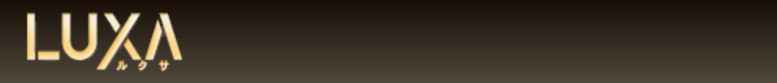
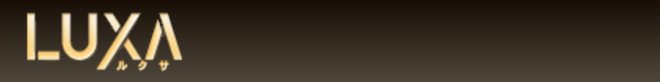
hisi

Changed region(s): [[0.0303, 0.1463, 0.2727, 0.878]]

diff --git a/css/login.css b/css/login.css
@@ -1,0 +1,48 @@
+#select {
+  text-align: center;
+}
+
+select[name="team-id"] {
+  line-height: 40px;
+  width: 203px;
+  overflow: hidden;
+  display: inline-block;
+  *display: inline;
+　*zoom: 1;
+　border-radius: 0.5em;
+　border: 3px solid rgba(0, 0, 0, 0.4);
+　box-shadow: 0 2px 0 #AAA;
+　background-color: rgba(192, 192, 192, 0.1);
+  border-radius: 5px;
+}
+
+#password {
+  text-align: center;
+}
+
+input[name="password"] {
+  line-height: 40px;
+  width: 203px;
+  margin-top: 50px;
+  margin-bottom: 50px;
+  border-radius: 5px;
+}
+
+#button {
+  text-align: center;
+}
+
+input[name="password-submit"] {
+  display: inline-block;
+  width: 203px;
+  line-height:  60%;
+  padding: 20px 20px;
+  border-radius: 25px;
+  border-color: #FFF;
+  text-decoration: none;
+  text-align: center;
+  color: #FFF;
+  background-image: -webkit-linear-gradient(bottom left, #87cefa 0%, #6495ed 100%);
+  background-image: -o-linear-gradient(bottom left, #87cefa 0%, #6495ed 100%);
+  background-image: linear-gradient(to top right, #87cefa 0%, #6495ed 100%);
+}

diff --git a/css/index.css b/css/index.css
@@ -1,0 +1,27 @@
+.link {
+  display: inline-block;
+  width: 203px;
+  line-height:  60%;
+  margin-top: 10px;
+  margin-bottom: 10px;
+  padding: 20px 20px;
+  border-radius: 25px;
+  text-decoration: none;
+  text-align: center;
+  color: #FFF;
+  background-image: -webkit-linear-gradient(bottom left, #FFC107 0%, #ff8b5f 100%);
+  background-image: -o-linear-gradient(bottom left, #FFC107 0%, #ff8b5f 100%);
+  background-image: linear-gradient(to top right, #FFC107 0%, #ff8b5f 100%);
+  transition: .4s;
+}
+
+.link:hover {
+  background-image: -webkit-linear-gradient(45deg, #FFC107 0%, #f76a35 100%);
+  background-image: linear-gradient(45deg, #FFC107 0%, #f76a35 100%);
+}
+
+.answer {
+  background-image: -webkit-linear-gradient(bottom left, #87cefa 0%, #6495ed 100%);
+  background-image: -o-linear-gradient(bottom left, #87cefa 0%, #6495ed 100%);
+  background-image: linear-gradient(to top right, #87cefa 0%, #6495ed 100%);
+}

diff --git a/css/common.css b/css/common.css
@@ -1,3 +1,4 @@
+<<<<<<< 83a7f360424b8ece56e953193ab23891eaea951c
 div {
   font-size: 20px;
 }
@@ -9,3 +10,53 @@ div {
   padding-bottom: 10px;
   text-align: center;
 }
+=======
+html {
+  font-size: 62.5%;
+}
+
+body {
+  font-size: 1.4rem;
+}
+
+a {
+  text-decoration: none;
+}
+
+select {
+  -moz-appearance: none;
+  -webkit-appearance: none;
+  -o-appearance: none;
+  -ms-appearance: none;
+  appearance: none;
+  border-radius: 0;
+  margin: 0;
+  padding: 0;
+}
+
+input {
+  -moz-appearance: none;
+  -webkit-appearance: none;
+  -o-appearance: none;
+  -ms-appearance: none;
+  appearance: none;
+  border-radius: 0;
+  margin: 0;
+  padding: 0;
+}
+
+#header img{
+  width: 100%;
+}
+
+#footer img{
+  width: 100%;
+}
+
+#contents-inner {
+  padding-top: 80px;
+  padding-right: 60px;
+  padding-bottom: 80px;
+  padding-left: 60px;
+}
+>>>>>>> modify login.php design

diff --git a/css/item1.css b/css/item1.css
@@ -1,0 +1,3 @@
+.message {
+
+}

diff --git a/index.php b/index.php
@@ -10,8 +10,9 @@
 <head>
   <meta charset="utf-8">
   <title>lxmc home</title>
+  <meta name="viewport" content="width=380px">
   <link rel="stylesheet" type="text/css" href="css/common.css">
-  <link rel="stylesheet" type="text/css" href="css/home.css">
+  <link rel="stylesheet" type="text/css" href="css/index.css">
   <script type="text/javascript" src="https://code.jquery.com/jquery-3.2.1.min.js"></script>
 </head>
 <body>
@@ -19,37 +20,36 @@
     <table id="item-use-history-table">
     </table>
   </div>
-
   <div id="header">
     <img src="img/luxa_header.png" width="100%"/>
   </div>
-  <?php
-    require './api/database/Database.php';
-    $db = Database::connect();
-    $team_id = 4; //暫定id
-    $sql = 'SELECT item_id FROM item_use_history WHERE team_id = :team_id;'; //Query
-    $history = $db -> prepare($sql);
-    $history -> bindParam(':team_id', $team_id);
-    $history -> execute();
+  <div id="contents-inner">
+    <?php
+      require './api/database/Database.php';
+      $db = Database::connect();
+      $team_id = 4; //暫定id
+      $sql = 'SELECT item_id FROM item_use_history WHERE team_id = :team_id;'; //Query
+      $history = $db -> prepare($sql);
+      $history -> bindParam(':team_id', $team_id);
+      $history -> execute();
 
-    $item_use_ids = $history -> fetchAll(PDO::FETCH_COLUMN, 'item_id');
-    if (empty($item_use_ids)) {
-      $item_no = 0; // アイテム1
-      if (count($item_use_ids) == 1 && current($item_use_ids) == $item_no) {
-        echo '<div class="link"><a href="item1.php">アイテム１</a></div>';
-      } else if (count($item_use_ids) == 1 && current($item_use_ids) != $item_no) {
-        echo '<div class="link"><a href="item2.php">アイテム２</a></div>';
+      $item_use_ids = $history -> fetchAll(PDO::FETCH_COLUMN, 'item_id');
+      if (empty($item_use_ids)) {
+        $item_no = 0; // アイテム1
+        if (count($item_use_ids) == 1 && current($item_use_ids) == $item_no) {
+          echo '<a href="item1.php" class="link">アイテム１</a>';
+        } else if (count($item_use_ids) == 1 && current($item_use_ids) != $item_no) {
+          echo '<a href="item2.php" class="link">アイテム２</a>';
+        } else {
+          echo '<a href="item1.php" class="link">アイテム１</a>';
+          echo '<a href="item2.php" class="link">アイテム２</a>';
+        }
       } else {
-        echo '<div class="link"><a href="item1.php">アイテム１</a></div>';
-        echo '<div class="link"><a href="item2.php">アイテム２</a></div>';
+        echo '<div class="message"><p>アイテム1は使用済みです</p></div>';
+        echo '<div class="message"><p>アイテム2は使用済みです</p></div>';
       }
-    } else {
-      echo '<div class="message"><p>アイテム1は使用済みです</p></div>';
-      echo '<div class="message"><p>アイテム2は使用済みです</p></div>';
-    }
- ?>
-  <div class="link">
-    <a href="answer.php">回答する</a>
+    ?>
+    <a href="answer.php" class="link answer">回答する</a>
   </div>
   <div id="footer">
     <img src="img/luxa_footer.png" width="100%"/>
@@ -60,23 +60,23 @@
         getItemUseHistory();
     });
 
-	let getItemUseHistory = function(teamId){
-		$.ajax({
-			type: "GET",
-			url: "./api/item-use-history.php",
-			dataType: "json",
-			success: showJson,
-			error: function( data ){console.log(data.responseText);},
-		});
-	}
+    let getItemUseHistory = function(teamId){
+        $.ajax({
+            type: "GET",
+            url: "./api/item-use-history.php",
+            dataType: "json",
+            success: showJson,
+            error: function( data ){console.log(data.responseText);},
+        });
+    }
 
-	let createTable = function(){
-		let table = $('<table></table>').attr('id', 'item-use-history').appendTo('#item-use-history');
-		let tr = $('<tr></tr>').appendTo($('#item-use-history-table'));
-		tr.append('<th>アイテム</th>');
-		tr.append('<th>ディールID</th>');
-		tr.append('<th>ITEM_USE_RESULT</th>');
-	}
+    let createTable = function(){
+        let table = $('<table></table>').attr('id', 'item-use-history').appendTo('#item-use-history');
+        let tr = $('<tr></tr>').appendTo($('#item-use-history-table'));
+        tr.append('<th>アイテム</th>');
+        tr.append('<th>ディールID</th>');
+        tr.append('<th>ITEM_USE_RESULT</th>');
+    }
 
     let showJson = function(json){
         if(json.length == 0 ){

diff --git a/login/login.php b/login/login.php
@@ -9,13 +9,14 @@
 <head>
     <meta charset="utf-8">
     <title>LXMC TEAM LOGIN</title>
+    <meta name="viewport" content="width=380px">
     <link rel="stylesheet" type="text/css" href="../css/common.css">
     <link rel="stylesheet" type="text/css" href="../css/login.css">
     <script type="text/javascript" src="https://code.jquery.com/jquery-3.2.1.min.js"></script>
 </head>
 <body>
   <div id="header">
-    <img src="../img/luxa_header.png" width="100%"/>
+    <img src="../img/luxa_header.png" />
   </div>
   <div id="contents">
     <div id="err">
@@ -25,37 +26,43 @@
             }
         ?>
     </div>
-    <div class="select-box">
+    <div id="contents-inner">
       <form id="password-form" method="GET" action="./login-auth.php">
+        <div id="select">
           <select name="team-id">
-              <option value= "0">TEAM 01</option>
-              <option value= "1">TEAM 02</option>
-              <option value= "2">TEAM 03</option>
-              <option value= "3">TEAM 04</option>
-              <option value= "4">TEAM 05</option>
-              <option value= "5">TEAM 06</option>
-              <option value= "6">TEAM 07</option>
-              <option value= "7">TEAM 08</option>
-              <option value= "8">TEAM 09</option>
-              <option value= "9">TEAM 10</option>
-              <option value="10">TEAM 11</option>
-              <option value="11">TEAM 12</option>
-              <option value="12">TEAM 13</option>
-              <option value="13">TEAM 14</option>
-              <option value="14">TEAM 15</option>
-              <option value="15">TEAM 16</option>
-              <option value="16">TEAM 17</option>
-              <option value="17">TEAM 18</option>
-              <option value="18">TEAM 19</option>
-              <option value="19">TEAM 20</option>
+            <option value= "0">TEAM 01</option>
+            <option value= "1">TEAM 02</option>
+            <option value= "2">TEAM 03</option>
+            <option value= "3">TEAM 04</option>
+            <option value= "4">TEAM 05</option>
+            <option value= "5">TEAM 06</option>
+            <option value= "6">TEAM 07</option>
+            <option value= "7">TEAM 08</option>
+            <option value= "8">TEAM 09</option>
+            <option value= "9">TEAM 10</option>
+            <option value="10">TEAM 11</option>
+            <option value="11">TEAM 12</option>
+            <option value="12">TEAM 13</option>
+            <option value="13">TEAM 14</option>
+            <option value="14">TEAM 15</option>
+            <option value="15">TEAM 16</option>
+            <option value="16">TEAM 17</option>
+            <option value="17">TEAM 18</option>
+            <option value="18">TEAM 19</option>
+            <option value="19">TEAM 20</option>
           </select>
+        </div>
+        <div id="password">
           <input type="password" name="password">
-          <input type="button" name="password-submit" value="Send">
+        </div>
+        <div id="button">
+          <input type="button" name="password-submit" value="ログイン">
+        </div>
       </form>
     </div>
   </div>
   <div id="footer">
-    <img src="../img/luxa_footer.png" width="100%"/>
+    <img src="../img/luxa_footer.png" />
   </div>
    <script>
         $('input[name="password-submit"]').click( function(){

diff --git a/item1.php b/item1.php
@@ -1,21 +1,24 @@
 <html>
 <head>
   <title>lxmc item1</title>
+  <meta name="viewport" content="width=380px">
   <link rel="stylesheet" type="text/css" href="css/common.css">
-  <link rel="stylesheet" type="text/css" href="css/home.css">
+  <link rel="stylesheet" type="text/css" href="css/item1.css">
 </head>
 <body>
   <div id="header">
     <img src="img/luxa_header.png" width="100%"/>
   </div>
-  <div class="message">
-    <p>アイテム1を使用するディールを選択してください</br>
-    選択したディールの金額を公開されます
-  　</p>
-  </div>
-  <!-- ディール一覧 -->
-  <div class="link">
-    <a href="item1Result.php">ディール金額公開</a>
+  <div id="contents-inner">
+    <div class="message">
+      <p>アイテム1を使用するディールを選択してください</br>
+      選択したディールの金額を公開されます
+    　</p>
+    </div>
+    <!-- ディール一覧 -->
+    <div class="link">
+      <a href="item1Result.php">ディール金額公開</a>
+    </div>
   </div>
   <div id="footer">
     <img src="img/luxa_footer.png" width="100%"/>

diff --git a/api/use-item1.php b/api/use-item1.php
@@ -17,8 +17,8 @@
 
         $json = array('dealId'=>$deal_id, 'price'=>$use_result);
         $insert_sql = 'insert into ITEM_USE_HISTORY(ITEM_USE_HISTORY_ID, TEAM_ID, ITEM_ID, USE_RESULT) ';
-        $insert_value = "value($item_use_history_id, $team_id, $item_id, $use_result)";
-        $db->query($insert_sql.$insert_value);
+		$insert_value = "value($item_use_history_id, $team_id, $item_id, $use_result)";
+		$db->query($insert_sql.$insert_value);
     }
 
     header('content-type: application/json; charset=utf-8');
